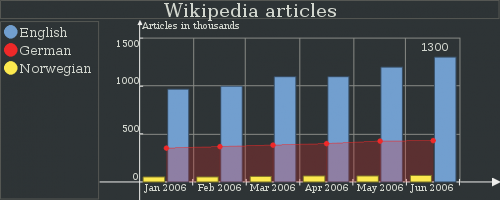
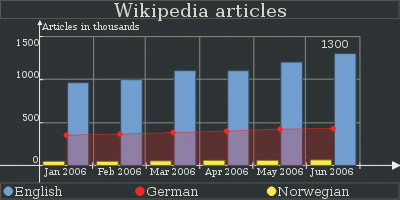
- Missed to commit changes in tutorial example 5
git-svn-id: http://svn.ez.no/svn/ezcomponents/trunk/Graph@3624 bc0e7bdc-f0fc-0310-8ff6-f601c06e1256

diff --git a/docs/tutorial_example_05.php b/docs/tutorial_example_05.php
@@ -8,6 +8,7 @@ $graph->options->font->path = 'tutorial_font.ttf';
 $graph->options->fillLines = 220;
 
 $graph->title = 'Wikipedia articles';
+$graph->legend->position = ezcGraph::BOTTOM;
 
 // Configure Graph
 $graph->palette = new ezcGraphPaletteBlack();
@@ -28,6 +29,6 @@ $graph->yAxis->label = 'Articles in thousands';
 // Render image
 $graph->driver = new ezcGraphGdDriver();
 
-$graph->render( 500, 200, 'tutorial_example_05.png' );
+$graph->render( 400, 200, 'tutorial_example_05.png' );
 
 ?>
